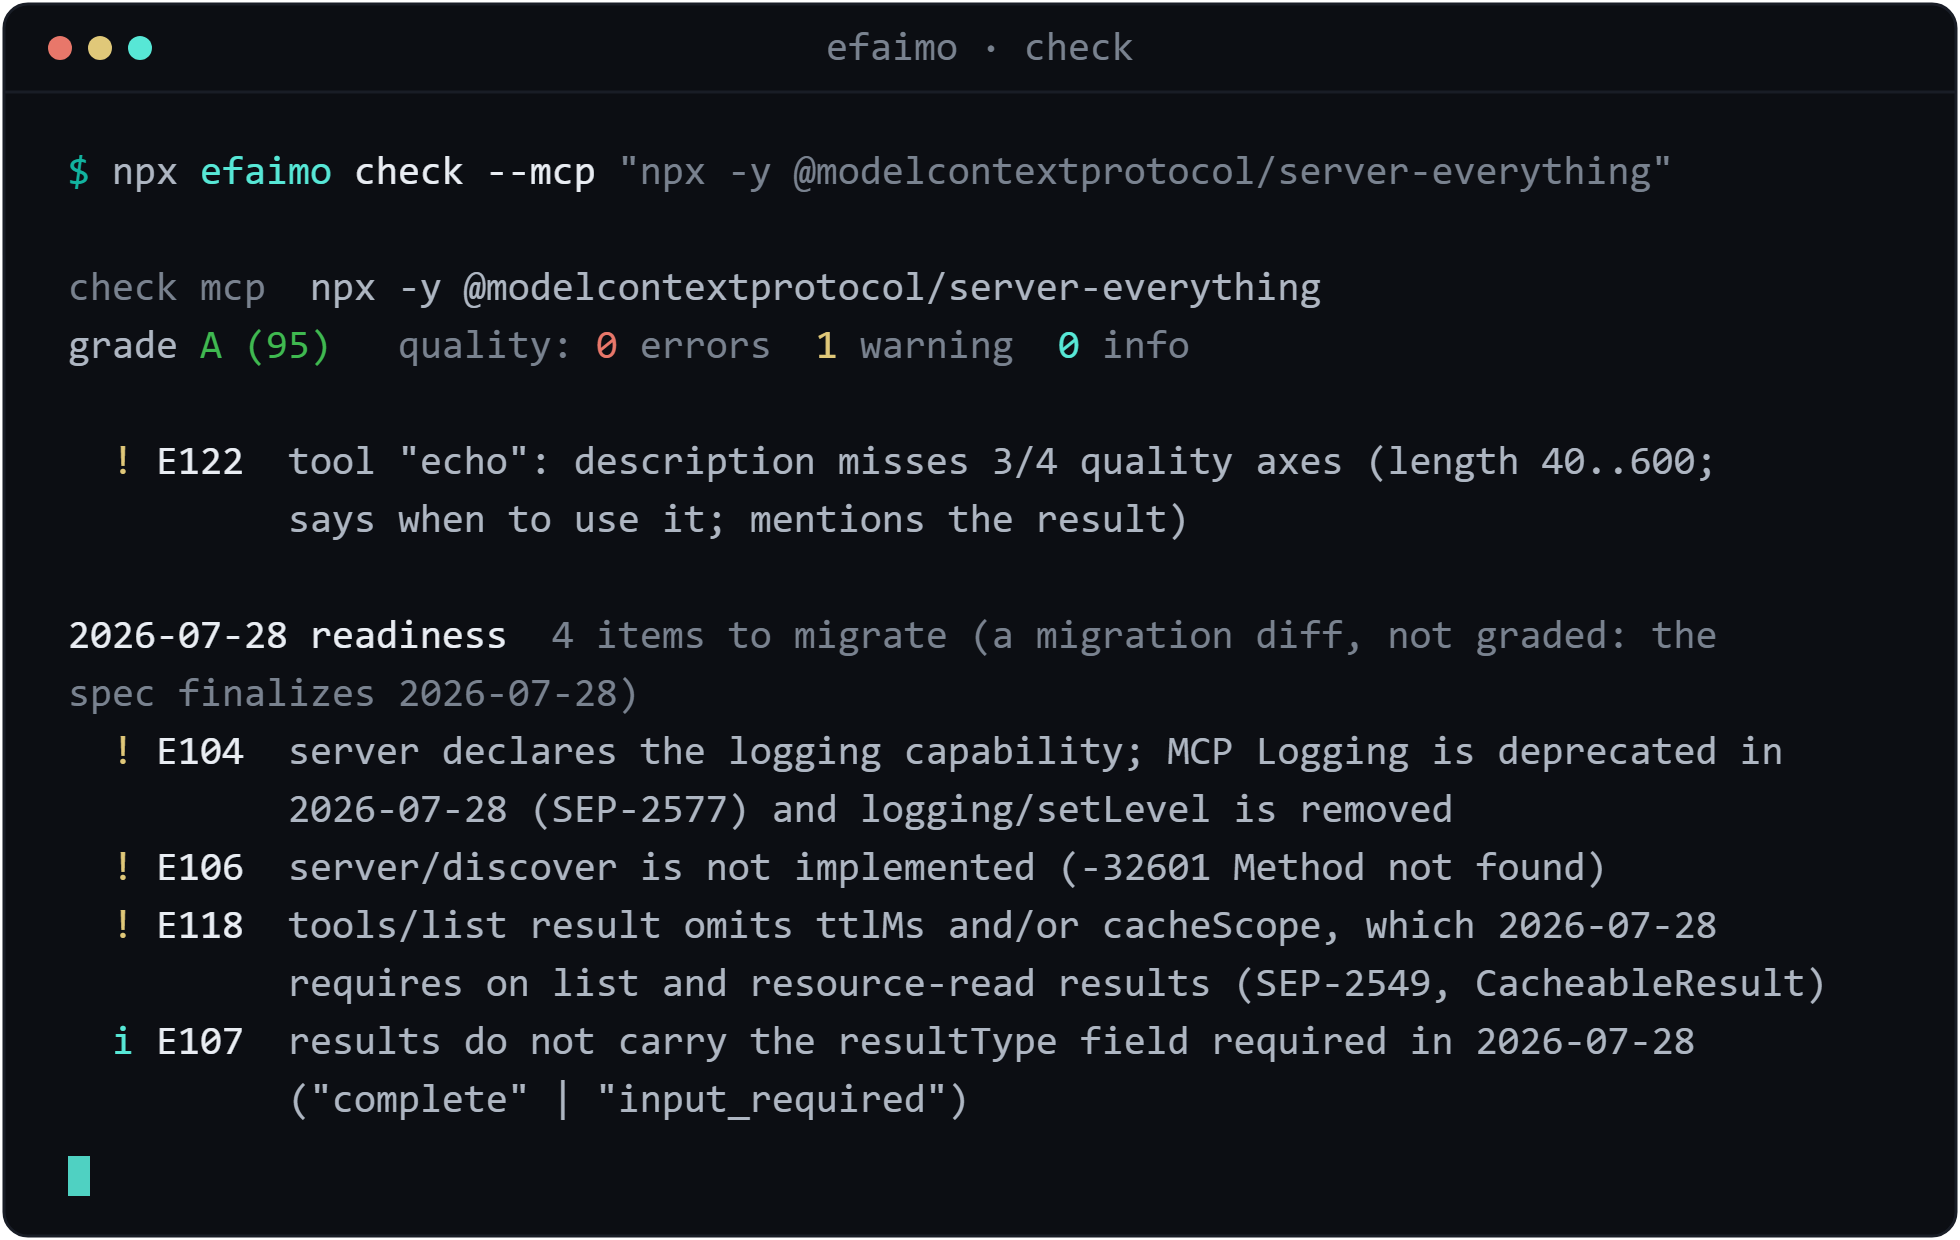
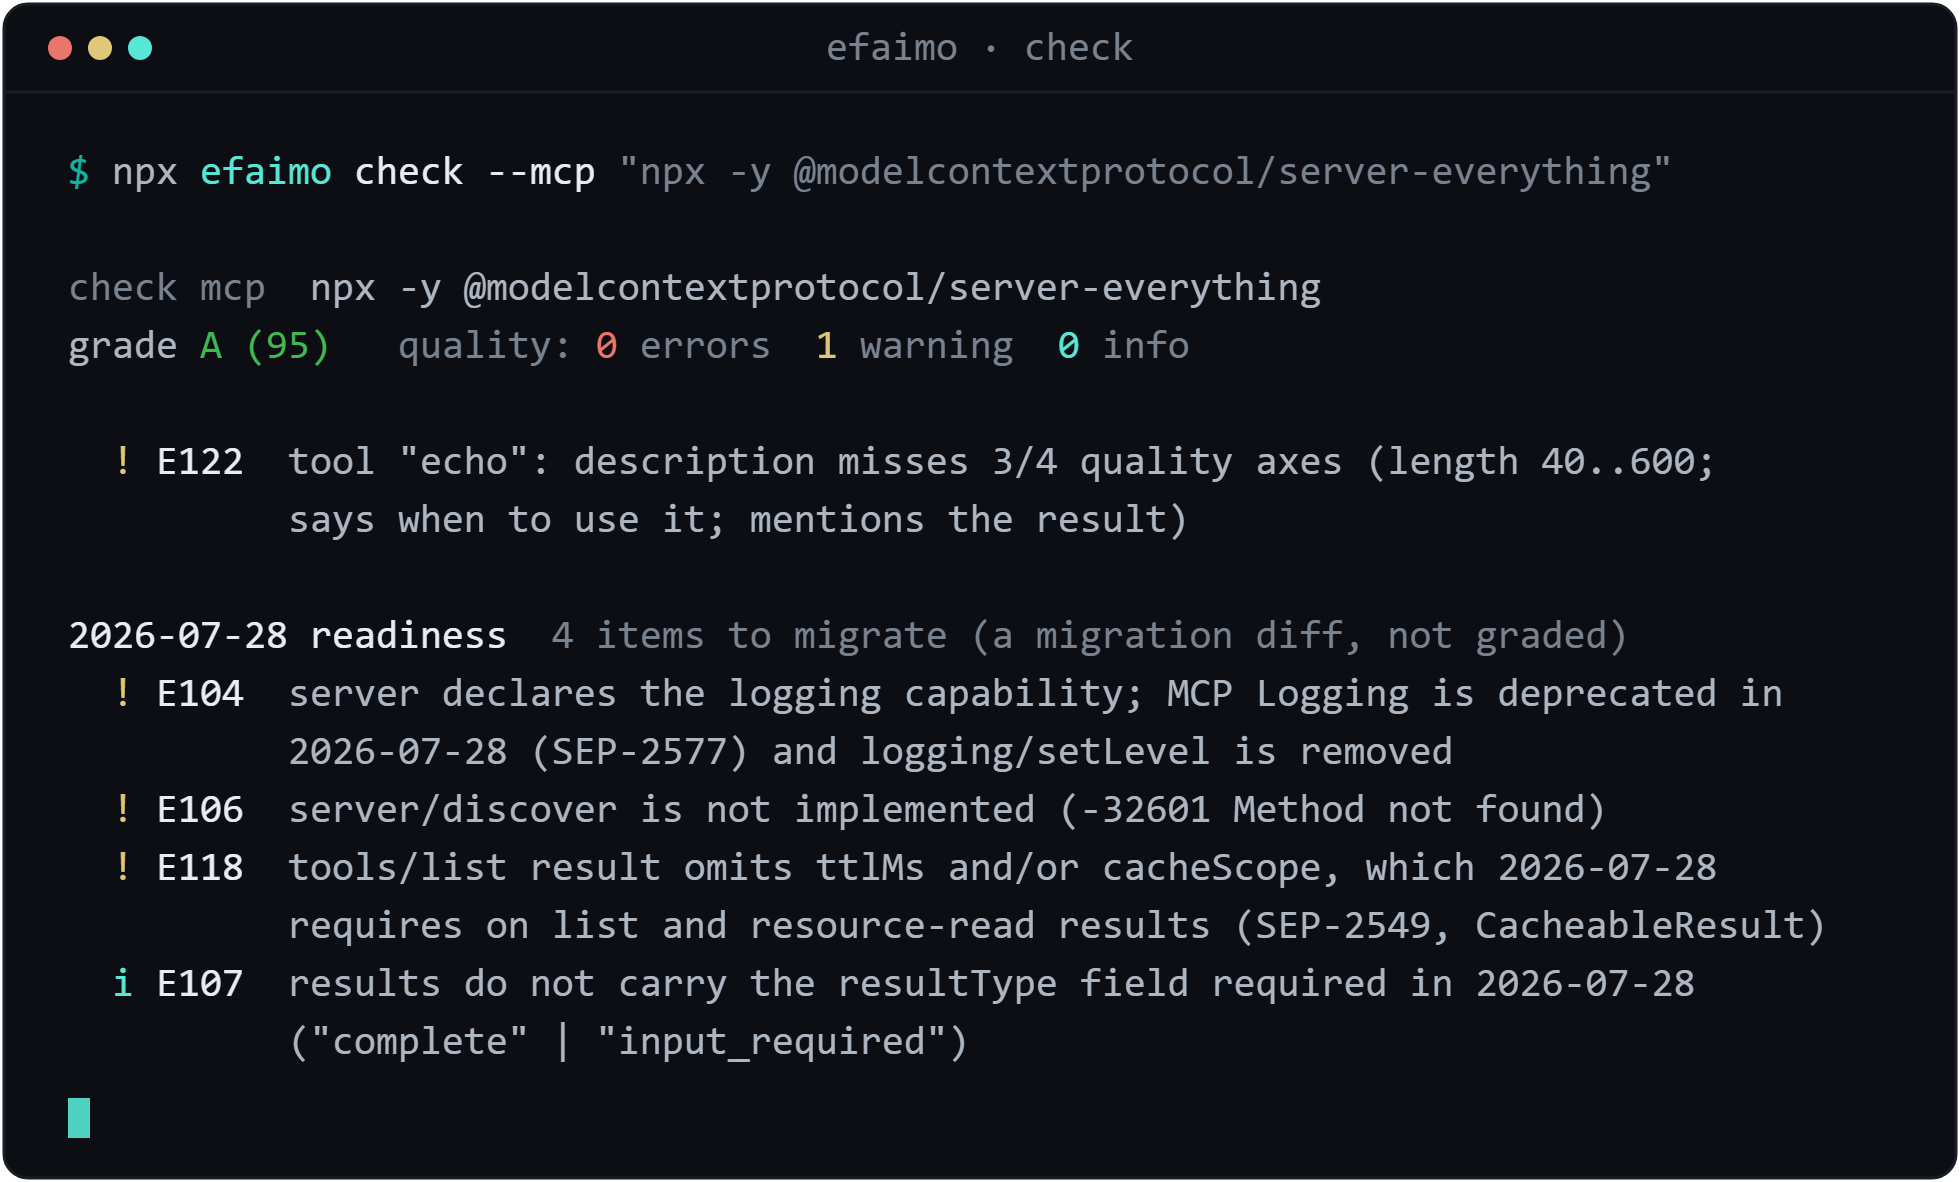
The spec published on schedule; stop saying it is about to
2026-07-28 came and went while nobody was watching, and three kinds of
sentence went stale with it.

The one that mattered shipped to every user. check --mcp printed
"(a migration diff, not graded: the spec finalizes 2026-07-28)". It now
prints "(a migration diff, not graded)", which is what the markdown
reporter already said. Whether readiness starts counting toward the grade
is still ADR-014's open decision, so the line states what is true today and
promises nothing about a release that has not been decided.

Rule detail lines still called the revision "the RC". It is not a release
candidate any more; E105, E107 and E112 name the revision or its shape.

--conformance ran @modelcontextprotocol/conformance@alpha, and a dist-tag
is not a pin. It moved from 0.2.0-alpha.9 to 0.2.0-alpha.10 on 2026-07-27,
so we went on reporting "the official conformance suite" for a build nobody
here had ever run: the same "we do not know what we ran" bug ADR-023 fixed,
through the other door. Pinned to 0.2.0-alpha.10 after re-reading
`server --help`, where --url and --spec-version are both still present. The
`latest` line is still 0.1.16 and still predates the revision, so the alpha
line remains the right one.

README, RULES.md and the check screenshot carried the same expired claims.
The screenshot is re-rendered from check.svg rather than retouched; the
render pipeline was validated first by reproducing the committed PNG to
0.06% of pixels before it was trusted to replace one.
[…]

diff --git a/src/rules/mcp/index.ts b/src/rules/mcp/index.ts
@@ -185,7 +185,7 @@ const e105: McpRule = {
           severity: "warn",
           title: "requires the removed initialize handshake",
           message: `the server rejected a bare stateless tools/list as not initialized (${bare.errorMessage ?? `code ${bare.errorCode}`})`,
-          detail: `${RC} removes initialize and sessions; RC servers answer bare requests carrying version info in _meta. Whether an answering server is RC-conformant is judged separately (E107 resultType, E118 cache fields, E106 server/discover).`,
+          detail: `${RC} removes initialize and sessions; stateless servers answer bare requests carrying version info in _meta. Whether an answering server is fully ${RC}-conformant is judged separately (E107 resultType, E118 cache fields, E106 server/discover).`,
           fixHint: "upgrade to a 2.x SDK, or accept requests without a prior initialize",
         },
       ];
@@ -237,7 +237,7 @@ const e107: McpRule = {
         severity: "info",
         title: "results missing resultType",
         message: `results do not carry the resultType field required in ${RC} ("complete" | "input_required")`,
-        detail: "the RC requires resultType on every result (SEP-2322); on list results the value must be \"complete\". RC clients treat missing resultType from earlier-protocol servers as \"complete\", so this is informational until you upgrade.",
+        detail: `${RC} requires resultType on every result (SEP-2322); on list results the value must be "complete". ${RC} clients treat missing resultType from earlier-protocol servers as "complete", so this is informational until you upgrade.`,
       },
     ];
   },
@@ -284,7 +284,7 @@ const e112: McpRule = {
         ruleId: "E112",
         severity: "warn",
         title: "nondeterministic tools/list order",
-        message: "tool order differed across two fresh connections; deterministic ordering enables prompt-cache hits in RC hosts",
+        message: "tool order differed across two fresh connections; deterministic ordering enables prompt-cache hits in stateless hosts",
         fixHint: "sort tools stably before returning them",
       },
     ];

diff --git a/src/cli.ts b/src/cli.ts
@@ -379,13 +379,21 @@ program
       if (target.kind !== "http") {
         console.error(pc.yellow("note: the official conformance suite drives http targets (--url); skipping for this target"));
       } else {
-        // The `latest` line of the conformance suite predates the 2026-07-28
-        // revision, so it silently tests the old protocol. The RC scenarios
-        // ship on the `alpha` line only; --spec-version scopes them to the
-        // revision efaimo is about.
+        // The `latest` line of the conformance suite (0.1.16) predates the
+        // 2026-07-28 revision, so it silently tests the old protocol. Those
+        // scenarios ship on the `alpha` line only; --spec-version scopes them
+        // to the revision efaimo is about.
+        //
+        // Pinned to an exact version, because a dist-tag is not a pin. `alpha`
+        // moved from 0.2.0-alpha.9 to 0.2.0-alpha.10 on 2026-07-27, and we went
+        // on reporting "the official conformance suite" for a build nobody here
+        // had run: the same "we do not know what we ran" bug this block was
+        // written to fix, through the other door. Bumping it means re-reading
+        // `server --help` first; the two flags below were confirmed against
+        // 0.2.0-alpha.10.
         const args = [
           "-y",
-          "@modelcontextprotocol/conformance@alpha",
+          "@modelcontextprotocol/conformance@0.2.0-alpha.10",
           "server",
           "--url",
           target.url,

diff --git a/src/check/check.ts b/src/check/check.ts
@@ -21,8 +21,10 @@ import type { ResolvedTarget } from "../targets/resolve.js";
 import { VERSION } from "../version.js";
 
 function buildReport(surface: Surface, target: string, findings: Finding[], notes: string[]): CheckReport {
-  // MCP readiness findings (E101-E118) are a migration diff for a spec that is
-  // not final until 2026-07-28; they are reported separately and never graded.
+  // MCP readiness findings (E101-E118) are a migration diff for the 2026-07-28
+  // spec: a migration not yet made is a to-do list, not a defect in what
+  // shipped. Reported separately and never graded. (The spec published on
+  // 2026-07-28; whether readiness starts counting is ADR-014's open decision.)
   const readinessAll: Finding[] = [];
   const gradedAll: Finding[] = [];
   for (const f of findings) {

diff --git a/src/core/types.ts b/src/core/types.ts
@@ -210,8 +210,8 @@ export interface CheckReport {
   grade: GradeInfo;
   /**
    * MCP only: 2026-07-28 readiness findings (E101-E118), reported as an
-   * ungraded migration diff. The target spec is not final until 2026-07-28,
-   * so unreadiness is a to-do list, not a quality defect.
+   * ungraded migration diff: a migration not yet made is a to-do list, not a
+   * quality defect in what shipped.
    */
   readiness?: { findings: Finding[]; counts: { error: number; warn: number; info: number } };
   notes: string[];

diff --git a/src/reporters/pretty.ts b/src/reporters/pretty.ts
@@ -67,7 +67,7 @@ export function renderCheckPretty(report: CheckReport): string {
       lines.push(
         paint(pc.bold, `2026-07-28 readiness`) +
           `  ${r.findings.length} item${r.findings.length === 1 ? "" : "s"} to migrate ` +
-          paint(pc.dim, "(a migration diff, not graded: the spec finalizes 2026-07-28)"),
+          paint(pc.dim, "(a migration diff, not graded)"),
       );
       for (const f of r.findings) renderFinding(lines, f);
     } else {

diff --git a/README.md b/README.md
@@ -131,15 +131,15 @@ descriptions, schemas, annotations, tool count, token cost. Second, an ungraded
 `initialize` and sessions, deprecates Sampling, Roots, and Logging, and requires
 `server/discover`, `resultType`, and cache fields): exactly what will break and
 how to fix it, each rule naming the SEP it came from. Readiness never drags the
-grade; not having migrated to a spec that is not final until 2026-07-28 is a
-to-do list, not a defect. Full list: [docs/RULES.md](./docs/RULES.md).
+grade; a migration you have not made yet is a to-do list, not a defect in what
+you shipped. Full list: [docs/RULES.md](./docs/RULES.md).
 
 <p align="center">
   <img src="assets/check.png" alt="efaimo check example output: quality grade A (95) plus a four-item 2026-07-28 migration diff for the reference server" width="800">
 </p>
 
-*(That is the official reference server: solid quality, four things to migrate
-before the 28th.)*
+*(That is the official reference server: solid quality, four things left to
+migrate.)*
 
 <details>
 <summary>The same output as copyable text</summary>
@@ -151,8 +151,7 @@ grade A (95)   quality: 0 errors  1 warning  0 info
   ! E122  tool "echo": description misses 3/4 quality axes (length 40..600;
           says when to use it; mentions the result)
 
-2026-07-28 readiness  4 items to migrate (a migration diff, not graded: the
-spec finalizes 2026-07-28)
+2026-07-28 readiness  4 items to migrate (a migration diff, not graded)
   ! E104  server declares the logging capability; MCP Logging is deprecated in
           2026-07-28 (SEP-2577) and logging/setLevel is removed
   ! E106  server/discover is not implemented (-32601 Method not found)
@@ -286,8 +285,8 @@ More recipes (pre-commit, GitLab, editor audit, programmatic use):
 | **E121 to E130** | MCP quality: description quality, annotations, schema hygiene, tool-count and token-cost budgets |
 
 Quality (E12x-E13x) and skill (S) findings set the letter grade; readiness
-findings (E101-E118) are reported as an ungraded migration diff until the spec
-ratifies. Every finding carries a stable id you can suppress or link. See
+findings (E101-E118) are reported as an ungraded migration diff. Every finding
+carries a stable id you can suppress or link. See
 [docs/RULES.md](./docs/RULES.md).
 
 ## Roadmap
@@ -295,8 +294,8 @@ ratifies. Every finding carries a stable id you can suppress or link. See
 - Harden `efaimo test`: a separately chosen judge model, confidence intervals on
   the delta, multi-turn tool-use trials, and judge calibration, so the
   experimental harness earns unqualified trust.
-- Track the 2026-07-28 spec to ratification, then start grading readiness (today
-  it is an ungraded migration diff on purpose).
+- The 2026-07-28 spec published on schedule; start counting readiness toward the
+  grade in a minor release (today it is an ungraded migration diff on purpose).
 - A public, continuously updated Agent Skills Quality Index over a broad corpus.
 
 ## Stability

diff --git a/docs/RULES.md b/docs/RULES.md
@@ -9,13 +9,12 @@ Grade starts at 100; each error costs 15, each warning 5, each info 1.
 MCP checks split into **2026-07-28 readiness** (E101-E118) and **quality**
 (E121-E130); skill checks are S1xx. **Only quality and skill findings are
 graded.** Readiness findings are reported as a separate, ungraded **migration
-diff**: the stateless revision they target is a locked Release Candidate
-(2026-05-21) that does not finalize until 2026-07-28, and not yet migrating to
-an unreleased spec is a to-do, not a defect. Readiness severities still order
-the diff by urgency, but the diff never affects the grade, the badge, or the
-exit code (including `--strict`). Once the spec ratifies, expect readiness to
-start counting in a minor release. Source-pattern rules are heuristics and say
-so in their detail line.
+diff**: the stateless revision they target published on 2026-07-28, and a
+migration you have not made yet is a to-do, not a defect in what you shipped.
+Readiness severities still order the diff by urgency, but the diff never affects
+the grade, the badge, or the exit code (including `--strict`). Now that the spec
+has published, expect readiness to start counting in a minor release.
+Source-pattern rules are heuristics and say so in their detail line.
 
 ## MCP readiness (E101-E118)
 
